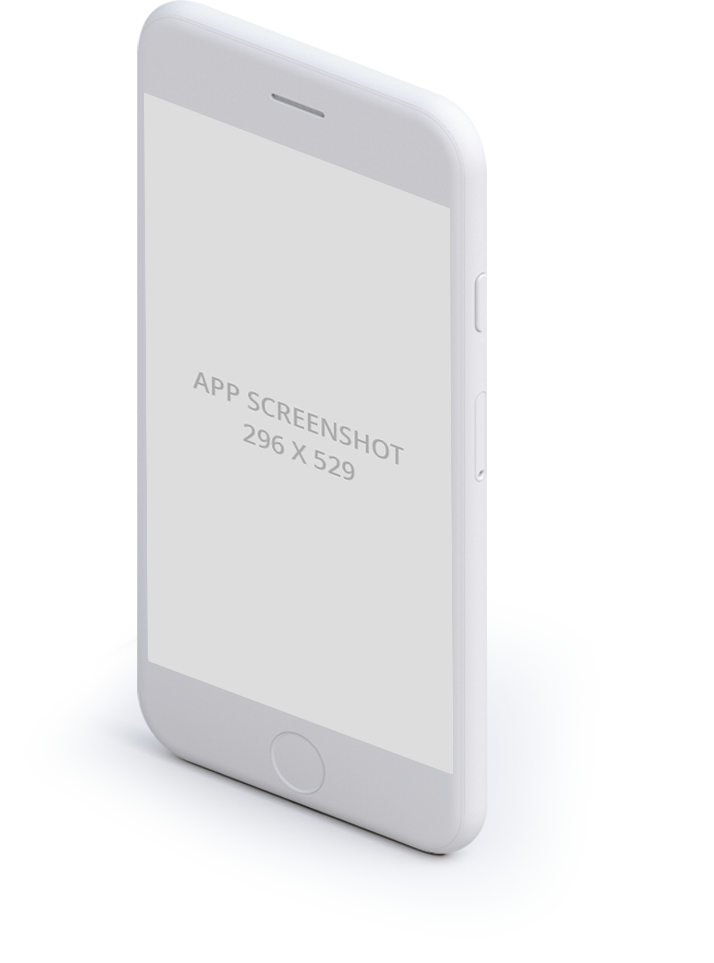
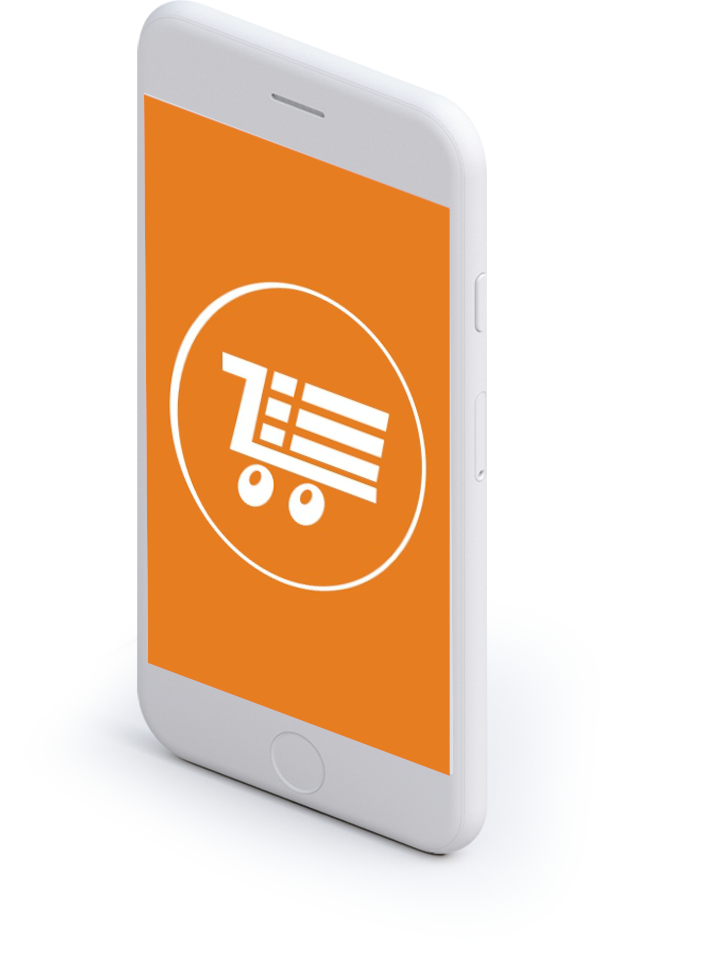
LS-416 - ongoing removing cruft.

Changed region(s): [[0.1849, 0.0935, 0.6471, 0.81]]

diff --git a/src/app/landing/home/intro-two/intro-two.component.html b/src/app/landing/home/intro-two/intro-two.component.html
@@ -6,25 +6,12 @@
         <div class="home-contain">
           <div class="text-white">
             <div class="contain">
-              <img src="../../../../assets/images/home2/logo-icon.png" alt="logo">
               <h4>Welcome To</h4>
               <h1 class="text-white">The List Shop
               </h1>
               <p class="slide-cap-desc"></p>
               <a [routerLink]="'/home/one'"><img src="../../../../assets/images/appstore.png" alt="appstore" class="store"></a>
             </div>
-            <!-- <div class="play-button">
-              <a #video class="popup-vimeo animated-circle">
-                <img src="assets/images/home2/play-button.png" (click)="openVerticallyCentered(content)" alt="play-button" class="img-fluid"></a>
-                <ng-template #content let-modal>
-                    <div class="modal-body video-modal">
-                        <button type="button" class="close" aria-label="Close" (click)="modal.dismiss('Cross click')">
-                            <span aria-hidden="true">&times;</span>
-                          </button>
-                        <iframe class="mfp-iframe" frameborder="0" allowfullscreen="" src="https://player.vimeo.com/video/54298665?color=ECCE52"></iframe>
-                    </div>
-                  </ng-template>
-            </div>-->
           </div>
         </div>
       </div>

diff --git a/src/app/landing/home/home.module.ts b/src/app/landing/home/home.module.ts
@@ -9,9 +9,7 @@ import { NgbModule } from '@ng-bootstrap/ng-bootstrap';
 import { HomeOneComponent } from './versions/home-one/home-one.component';
 import { HomeTwoComponent } from './versions/home-two/home-two.component';
 import { HomeThreeComponent } from './versions/home-three/home-three.component';
-import { IntroOneComponent } from './intro-one/intro-one.component';
 import { IntroTwoComponent } from './intro-two/intro-two.component';
-import { IntroThreeComponent } from './intro-three/intro-three.component';
 import { AboutComponent } from './about/about.component';
 import { FeatureComponent } from './feature/feature.component';
 import { ScreenshotComponent } from './screenshot/screenshot.component';
@@ -36,9 +34,7 @@ import { NewsletterComponent } from './newsletter/newsletter.component';
     HomeOneComponent,
     HomeTwoComponent,
     HomeThreeComponent,
-    IntroOneComponent,
     IntroTwoComponent,
-    IntroThreeComponent,
     AboutComponent,
     FeatureComponent,
     ScreenshotComponent,

diff --git a/src/app/landing/home/versions/home-three/home-three.component.html b/src/app/landing/home/versions/home-three/home-three.component.html
@@ -1,5 +1,4 @@
 <app-header></app-header>
-<app-intro-three></app-intro-three>
 <app-about></app-about>
 <app-feature></app-feature>
 <app-screenshot></app-screenshot>

diff --git a/src/app/landing/home/versions/home-one/home-one.component.html b/src/app/landing/home/versions/home-one/home-one.component.html
@@ -1,5 +1,4 @@
 <app-header></app-header>
-<app-intro-one></app-intro-one>
 <app-about></app-about>
 <app-feature></app-feature>
 <app-screenshot></app-screenshot>

diff --git a/src/assets/scss/color/color-4.scss b/src/assets/scss/color/color-4.scss
@@ -186,7 +186,7 @@ h1 {
 }
 
 .home-right img {
-  filter: hue-rotate(335deg);
+  filter: hue-rotate(0deg);
 }
 
 .about-phone img {
